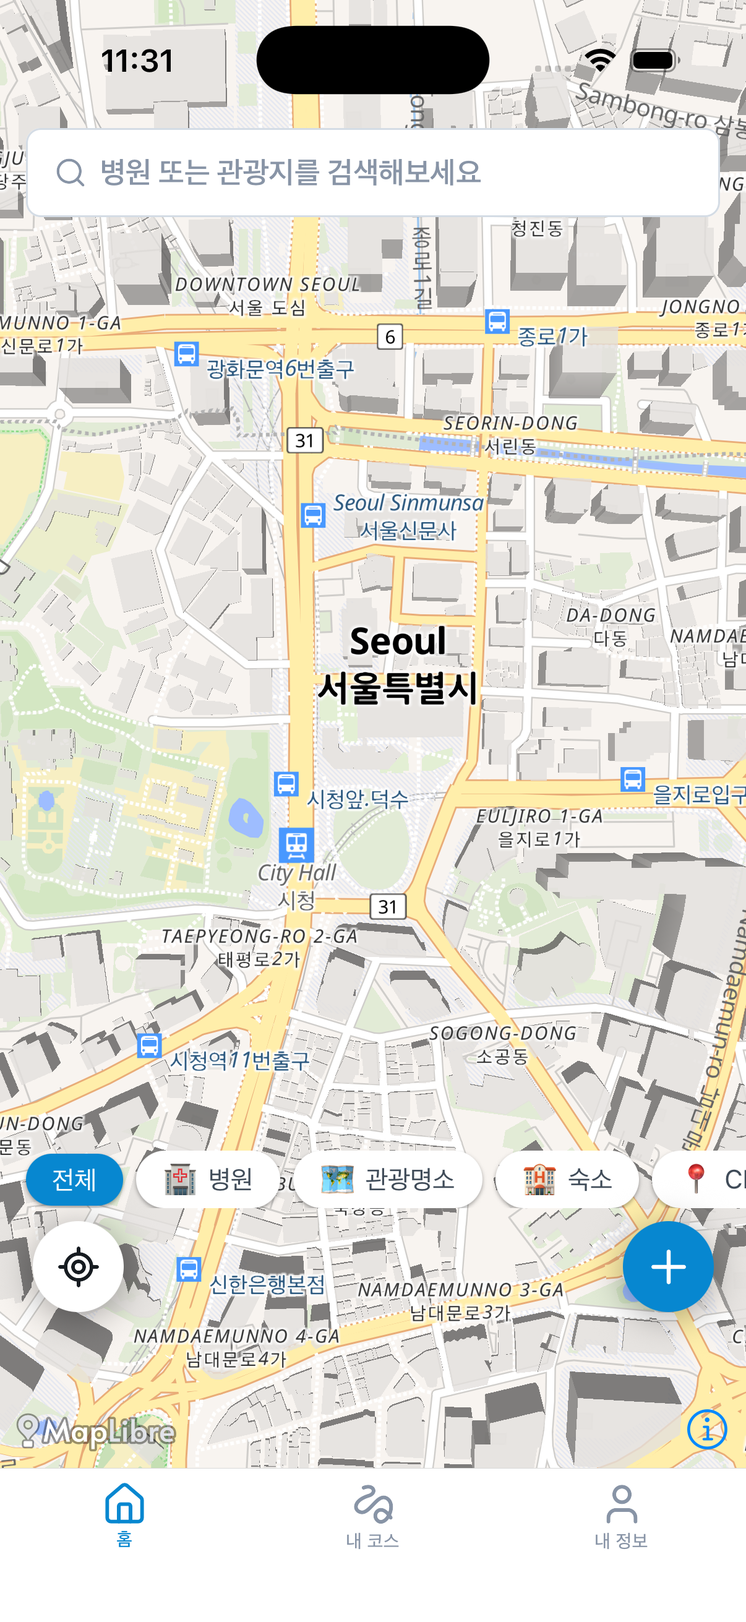
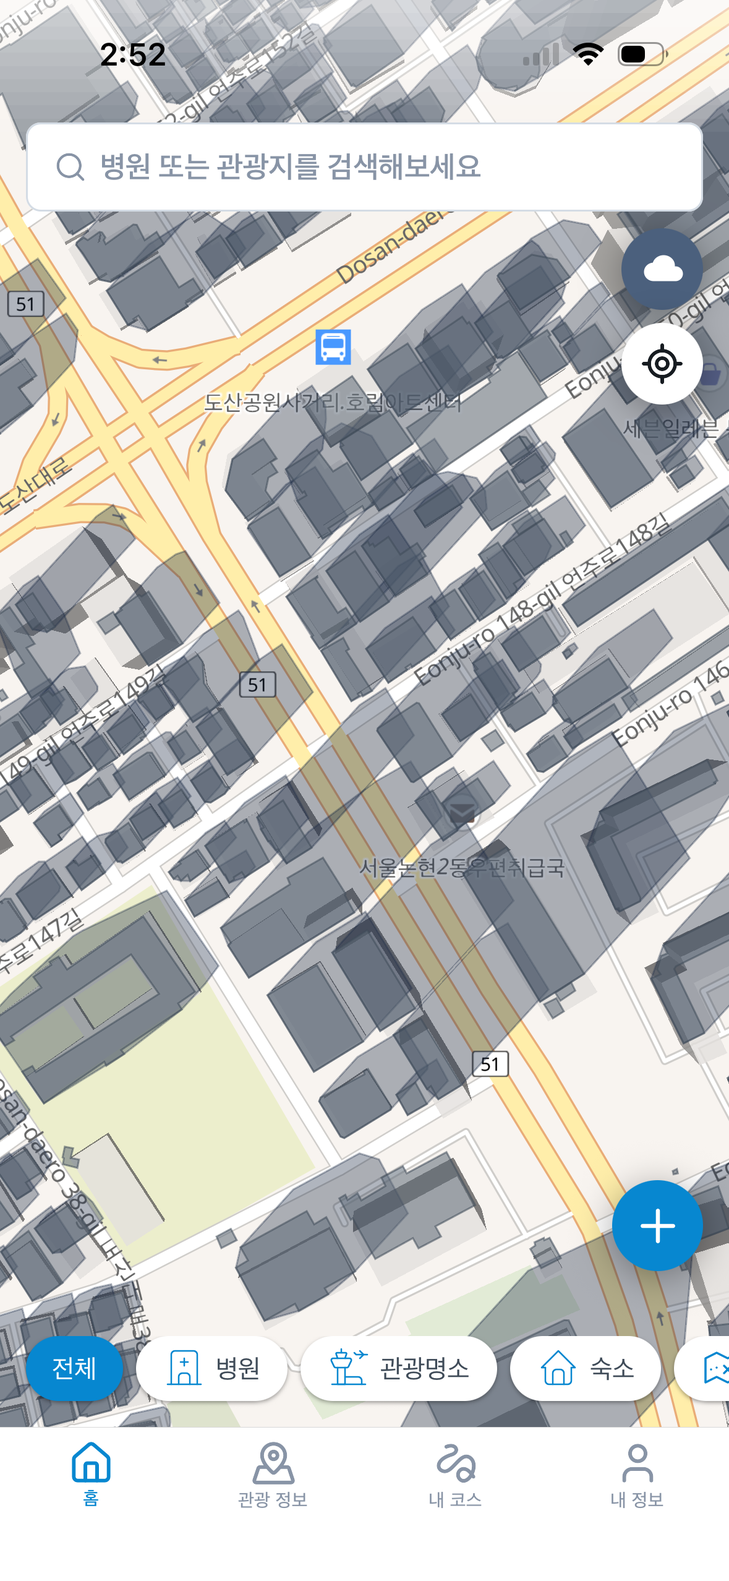
commit

diff --git a/data/content.ts b/data/content.ts
@@ -36,7 +36,7 @@ export type ProjectDetail = {
   label: string;
   content: string;
   image?: string; // 이 섹션 설명에 함께 보여줄 이미지 — public/ 에 넣고 "/파일명.png" 형태로 지정
-  contentAfter?: string; // 이미지 아래에 이어서 표시할 본문 (content → image → contentAfter 순서)
+  contentAfter?: string; // 이미지 아래에 이어서 표시할 본문 (content → image → contentAfter 순서). 중간에 이미지를 넣으려면 한 줄에 "![설명](/projects/파일명.png)"
   link?: { label: string; href: string }; // 이 섹션 아래에 표시할 데모/외부 링크 (예: Figma)
 };
 
@@ -54,10 +54,48 @@ export type Project = {
 
 export const projects: Project[] = [
   {
-    title: "The julge",
-    summary: "시급 기반 구인·구직 매칭 플랫폼",
+    title: "Afterglow",
+    summary:
+      "한국관광공사 공모전 외국인 대상 피부 시술 이후 관광 코스 추천 서비스 (FE 개발)",
+    period: "2026.05 ~ (진행 중)",
+    tags: ["React Native", "Expo", "TypeScript", "Turborepo", "디자인 시스템"],
+    repo: "https://github.com/one-two-poof/afterglow-fe",
+    link: "https://apps.apple.com/us/app/afterglow-480b89/id6808603701",
+    image: "/projects/afterglow.png",
+    details: [
+      {
+        label: "개요",
+        content:
+          "외국인 관광객을 대상으로 **피부 시술 이후의 관광 코스를 추천**하는 서비스입니다. 관광지 조회,검색해 상세를 확인하고, 코스를 추천받는 흐름을 중심으로 합니다. \n\n진행 도중 **웹에서 앱 배포로 방향이 전환**되었습니다. **모노레포 구조로 설계해 둔 덕분에, 타입, 공통 로직등을 그대로 재활용**할 수 있었고, AI를 활용하여 빠르게 마이그레이션하여 1차 배포까지 진행되었습니다. \n\n 배포에서 끝나는 것이 아닌, 실제 **사용자 피드백을 받기 위해서** 개발자 커뮤니티에 공유하여 피드백 개선 후 2차 배포를 목표로 진행 중입니다.",
+      },
+      {
+        label: "AI 마이그레이션 워크플로우",
+        content:
+          "웹에서 앱으로 방향이 바뀐 뒤, **처음에 스펙을 결정하고 컴포넌트 개발 → 기능 테스트 → 테스트 배포 → 자체 QA를 한 사이클로 반복**하며 마이그레이션을 진행했습니다.",
+        image: "/projects/afterglow-workflow.svg",
+        contentAfter:
+          '**1. 스펙 결정**\nAI에게 단순히 "구현해줘"라고 맡기지 않고, 웹 스택을 앱에서 무엇으로 대체할지, 어떤 리스크가 있는지 AI와 함께 검토하며 로드맵을 작성했습니다. 예를 들어, **웹에서 쓰던 건물 데이터(PMTiles)를 앱용 지도 라이브러리가 지원하는지**처럼 확신할 수 없는 부분은 리스크로 따로 분류했고, **지도 기능의 첫 PR에서 먼저 검증**한 뒤 다음 단계로 넘어갔습니다.\n\n**2. 컴포넌트 개발**\n**AI가 작성한 코드는 그대로 머지하지 않았습니다.** 모든 기술을 처음부터 완벽히 알고 시작한 것은 아니었기 때문에, **PR 템플릿에 학습 퀴즈 섹션을 두고 PR마다 핵심 개념을 묻는 퀴즈 3문제**를 함께 올리게 했습니다. **웹과 다른 점, 설계를 그렇게 한 이유를 이해한 후 머지**하는 원칙으로 진행했습니다.\n![PR 템플릿의 학습 퀴즈 섹션](/projects/afterglow-pr.png)\n**3. 기능 테스트**\n모든 PR은 CI에서 **lint · type-check · test · build**를 통과해야 머지되도록 했습니다. 그림자 계산,지도 영역 같은 핵심 로직은 단위 테스트로, **로그인,회원가입 유효성,탭 이동은 Maestro E2E**로 검증했습니다.\n\n**4. 테스트 배포**\n**TestFlight 내부 배포**를 진행하고, **구현한 부분을 실기기에서 검증합니다.**\n\n**5. 자체 QA**\n내부 배포된 앱을 직접 써보며 불편한 점을 찾고, 이를 **다음 개발 사이클에 반영했습니다.** 개선 과정에서 스펙이 바뀌어야 하는 경우에는 로드맵 문서를 먼저 갱신한 뒤 개발로 넘어갔습니다.',
+      },
+      {
+        label: "코스 추천 데이터 흐름 결정",
+        content:
+          "코스 추천은 **FE · BE · ML 세 파트가 걸친 기능**이라, 구현 전에 **요청을 어느 서버로 보낼지**부터 함께 정했습니다. 추천 요청을 **ML에 바로 보낼지 BE를 거칠지**, 사용자가 고른 코스를 **누가 DB에 저장할지** 5가지 흐름을 그려 비교했습니다.",
+        image: "/projects/afterglow-course.png",
+        contentAfter:
+          "**2번과 5번**은 한 서버가 다른 서버의 응답을 기다리며 요청을 붙잡고 있는 구조라, 추천 계산이 길어지면 **대기 시간과 장애 지점이 함께 늘어나** 제외했습니다. \n\n최종적으로 **1번 흐름**을 택했습니다. FE가 **ML에 직접 추천을 요청**해 결과를 받고, 사용자가 코스를 채택하면 **ML이 해당 코스를 DB에 저장**합니다. 저장된 코스 목록은 BE에서 조회합니다. 이에 맞춰 **프론트엔드가 주고받을 request/response 인터페이스**를 세 파트가 함께 맞췄습니다.",
+      },
+      {
+        label: "기술적 도전",
+        content:
+          "**1. 빌딩 데이터 최적화**\n**시술 직후 자외선을 피해야 하는 사용자 특성**을 고려해, **지도 위에 실제 건물 그림자(그늘)를 그려주는 기능**을 맡았습니다.\n\n문제는 **서울 전체 건물 데이터가 약 32MB짜리 단일 파일**이라는 점이었습니다. 앱에서 통째로 내려받는 대신 **HTTP Range 요청**을 활용하여, **현재 화면과 줌에 필요한 타일의 바이트 구간만 잘라서** 받아옵니다.\n\n**2.지도 성능 문제**\n그림자를 붙이자 **지도 이동이 멈추는 문제**가 생겼습니다. **지도 이동 시 그림자를 다시 계산해 네이티브 지도에 다시 넣는 과정**이 반복되고 있었고, 다음 해결책을 적용하였습니다:\n\n• **그림자 끄기/켜기**: 그늘 오버레이를 **기본 OFF 토글**로 바꾸고, OFF일 때는 건물 소스와 그림자 계산을 **아예 마운트하지 않아** 그림자 관련 작업이 0회가 되도록 했습니다.\n• **줌 제한**: 그림자는 **줌 15 이상**, 카테고리 마커는 **줌 14 이상**에서만 표시하고, 그보다 넓게 볼 때는 **확대 안내**를 띄웠습니다.\n• **중복 계산 차단**: 이동 종료 후 **200ms debounce**, 오래된 비동기 결과 무효화, 같은 영역의 **중복 요청 차단**을 적용했습니다.\n\n그 결과 같은 기기에서 **줌 14 구간 577ms → 332ms, 줌 15 구간 286ms → 166ms(약 42%)**개선했습니다.",
+      },
+    ],
+  },
+  {
+    title: "더줄게",
+    summary: "시급 기반 구인·구직 매칭 플랫폼 (FE 개발)",
     period: "2025.09.29 ~ 2025.10.21",
-    tags: ["Next.js", "TypeScript", "React Query", "성능 최적화", "AI 협업"],
+    tags: ["Next.js", "TypeScript", "Tanstack Query"],
     link: "https://sanginjeong-thejulge.vercel.app/",
     repo: "https://github.com/SanginJeong/thjr",
     device: "laptop", // 노트북 목업으로 표시 (가로 캡처)
@@ -69,28 +107,31 @@ export const projects: Project[] = [
           "팀 프로젝트로 개발한 **시급 기반 구인·구직 매칭 플랫폼**입니다. 사장님은 가게와 채용공고를 등록하고, 구직자는 공고를 탐색·지원하는 서비스입니다. \n\n프로젝트 이후 개인적으로 **AI를 활용한 코드 리뷰 워크플로우를 설계해 서비스를 개선**하고, 렌더링 전략과 API 구조를 다시 분석하며 성능을 끌어올린 리팩토링 프로젝트로 이어갔습니다.",
       },
       {
-        label: "주요 기능",
-        content:
-          "**공고 목록(무한 스크롤·정렬·페이지네이션), 공고 상세, 맞춤 공고 추천, 가게 등록·관리(고용주), 지원, 인증**으로 이어지는 구인·구직 흐름을 구현했습니다. \n\n인증 흐름은 Context 기반으로 정리하고, 페이지마다 렌더링 전략을 다르게 적용했습니다.",
-      },
-      {
         label: "AI 기반 코드 리뷰 워크플로우",
         content:
-          "AI에게 구현을 통째로 위임하는 대신, **프로젝트 구조와 페이지별 렌더링 전략을 함께 분석하며 개선 방향을 직접 결정하는 협업 방식**으로 리팩토링을 진행했습니다. \n\n**CodeRabbit CI와 GitHub MCP를 연계해, CodeRabbit의 자동 리뷰와 Claude의 독립 분석을 교차 검증하는 워크플로우**를 구축했습니다. 이를 통해 단일 AI 리뷰의 한계를 보완하고 코드 리뷰의 신뢰성을 높였습니다.",
+          "AI에게 구현을 통째로 위임하는 대신, **프로젝트 구조와 페이지별 렌더링 전략을 함께 분석하며 개선 방향을 직접 결정하는 협업 방식**으로 리팩토링을 진행했습니다.",
+        image: "/projects/thejulge-review-workflow.svg",
+        contentAfter:
+          "**CodeRabbit CI와 GitHub MCP를 연계해, CodeRabbit의 자동 리뷰와 Claude의 독립 분석을 교차 검증하는 워크플로우**를 구축했습니다. 이를 통해 코드 리뷰의 신뢰성을 높였습니다.",
+      },
+      {
+        label: "주요 기능",
+        content:
+          "**공고 목록(무한 스크롤,정렬,페이지네이션), 공고 상세, 맞춤 공고 추천, 가게 등록,관리(고용주), 지원, 인증**으로 이어지는 구인,구직 흐름을 구현했습니다.\n\n또한 **랜딩 페이지를 직접 기획하고 구현**했습니다. 특히 **전체 공고 수를 받아오는 동안 숫자 자리가 비어 보이는 문제**를 **Count-up 애니메이션**으로 채워, 데이터가 늦게 도착해도 **화면이 멈춰 보이지 않도록 사용자 경험을 개선**했습니다.",
       },
       {
         label: "기술적 도전",
         content:
-          "가장 크게 배운 건 **모든 페이지를 SSR로 만들려 했던 초기 설계가 패착**이었다는 점입니다. \n\nSSR에서 로그인 상태를 유지하려면 서버가 토큰을 읽을 수 있어야 해서 **토큰을 쿠키에 저장**했고, 그 과정에서 생긴 **SameSite 제약을 우회하려 API 요청을 프록시로 경유**시켰습니다. 그 결과 요청마다 지연이 쌓여 오히려 응답이 느려졌습니다. \n\n돌아보니 **사용자 인증이 필요한 페이지는 SSR의 이점이 크지 않다**는 점을 놓치고 있었습니다. 이를 인정하고, 전부 SSR로 밀어붙이는 대신 **페이지 특성에 따라 SSR과 CSR을 분리**하는 방향으로 다시 설계했습니다.",
+          "가장 크게 배운 건 **모든 페이지를 SSR로 만들려 했던 초기 설계가 패착**이었다는 점입니다. \n\nSSR에서 로그인 상태를 유지하려면 서버가 토큰을 읽을 수 있어야 해서 **토큰을 쿠키에 저장**했고, 그 과정에서 생긴 **SameSite 제약을 우회하려 API 요청을 프록시로 경유**시켰습니다. 그 결과 요청마다 지연이 쌓여 오히려 응답이 느려졌습니다. \n\n**사용자 인증이 필요한 페이지는 SSR의 이점이 크지 않다**는 점을 놓치고 있었습니다. 이를 인정하고, 전부 SSR로 구현하는 대신 **페이지 특성에 따라 SSR과 CSR을 분리**하는 방향으로 다시 설계했습니다.",
         contentAfter:
-          "그 결과 측정 수치로 개선을 확인했습니다. \n\n• 인증 페이지의 **프록시 제거 + 토큰 저장 방식 변경**으로 API 평균 응답속도 **673ms → 194ms (약 3배)** \n\n• 메인 페이지에는 **맞춤 공고**와 **전체 공고 리스트**가 함께 있는데, 로그인 사용자마다 다르게 계산되는 맞춤 공고가 로드될 때까지 **모든 사용자에게 동일한 전체 공고 리스트까지 렌더링이 블로킹**되고 있었습니다. \n\n• 그래서 **전체 공고 리스트는 SSR Prefetch로 먼저 그려지게** 하고, **맞춤 공고만 CSR로 분리**해 개인화 데이터가 전체 리스트를 막지 않도록 했습니다. 이 렌더링 분리로 **Performance 점수를 70점 → 98점**으로 끌어올렸습니다.",
+          "다음은 페이지 렌더링 구조 개선 후 측정 수치입니다. \n\n• 인증이 필요한 기능이 있는 페이지의 **프록시 제거 및 토큰 저장 방식 변경**으로 API 평균 응답속도 **673ms → 194ms (약 3배)** \n\n• 메인 페이지에는 **맞춤 공고**와 **전체 공고 리스트**가 함께 있는데, 로그인 사용자마다 다르게 계산되는 맞춤 공고가 로드될 때까지 **모든 사용자에게 동일한 전체 공고 리스트까지 렌더링이 블로킹**되고 있었습니다. 그래서 **전체 공고 리스트는 SSR Prefetch로 먼저 그려지게** 하고, **맞춤 공고만 CSR로 분리**해 개인화 데이터가 전체 리스트를 막지 않도록 했습니다. 이 렌더링 분리로 **Performance 점수를 70점 → 98점**으로 끌어올렸습니다.",
       },
     ],
   },
   {
     title: "Coworkers",
-    summary: "팀 단위 업무 공유 플랫폼 (팀 프로젝트 · 팀장)",
-    tags: ["Next.js", "TypeScript", "TanStack Query", "Storybook", "팀장"],
+    summary: "팀 단위 업무 공유 플랫폼 (FE 개발, 팀장)",
+    tags: ["Next.js", "TypeScript", "Tanstack Query", "Storybook"],
     period: "2025.10.30 ~ 2025.12.02",
     link: "https://coworkers-sanginjeong.vercel.app/", // TODO: 실제 배포 주소로 교체 (없으면 "")
     repo: "https://github.com/SanginJeong/Coworkers", // TODO: 실제 저장소 주소로 교체
@@ -108,6 +149,11 @@ export const projects: Project[] = [
           "**팀 대시보드, 게시판, 재사용 UI 컴포넌트**를 구현했습니다. \n\nStorybook으로 공통 컴포넌트를 문서화하고, 서버 상태는 TanStack Query로 관리했습니다.",
       },
       {
+        label: "할 일 상태 분류 기준 설계",
+        content:
+          "팀 대시보드는 할 일 목록을 **할 일 · 진행중 · 완료** 세 칸으로 나눠 보여줘야 했지만, 주어진 API에는 **상태 필드가 따로 없었습니다.** 할 일마다 받는 값은 **예정 날짜(date)**, **완료 시각(doneAt, 미완료면 null)**, **반복 주기(frequency)** 뿐이라, 무엇을 '진행중'으로 볼지는 프론트엔드가 정해야 했습니다. \n\n그래서 **두 값의 조합으로 상태 기준을 직접 정의**했습니다. \n\n• **완료**: doneAt 값이 있는 할 일 \n• **할 일**: 아직 완료되지 않았고, 예정 날짜가 **오늘 이후**인 할 일 \n• **진행중**: 아직 완료되지 않았는데, 예정 날짜가 **이미 도래한** 할 일 ",
+      },
+      {
         label: "컴포넌트 책임 분리",
         content:
           "모든 종류의 모달을 각각 만드는 대신 **합성 컴포넌트(Compound Component) 패턴**을 적용했습니다. \n\n**Modal의 책임을 열림/닫힘 같은 UI 상태 관리에만 한정**하고, 실제 콘텐츠는 외부에서 조합하도록 설계했습니다. 그 결과 **응집도는 높이고 도메인 모듈과의 결합도는 낮춰, 새로운 모달을 기존 코드 수정 없이 확장**할 수 있는 구조를 마련했습니다.",
@@ -118,17 +164,20 @@ export const projects: Project[] = [
           "측정과 QA를 근거로 체감 성능을 개선했습니다. \n\n• 페이지마다 흩어져 있던 **권한 검사 로직 9개를 Next.js Middleware 1개 파일로 통합**해, redirect 시 발생하던 **레이아웃 시프트 문제를 해결** \n• QA에서 발견한 **중복 API 호출을 수정**해 페이지 최초 진입 시 요청 수를 **11건 → 2건(약 80% 절감)** \n• 입력마다 발생하던 요청·렌더링을 **useDebounce(300ms)로 최적화**해 **INP 300ms → 100ms**로 개선",
       },
       {
-        label: "기술적 도전 · 협업 프로세스 개선",
+        label: "기술적 도전",
         content:
-          "프로젝트 도중 **팀원 1명이 이탈해 3명으로 진행**하게 되면서, 남은 인원이 **개발에만 집중할 수 있는 프로세스**를 마련하는 것이 팀장으로서의 과제였습니다. \n\n• **Husky + lint-staged**를 도입해 커밋 단계에서 린트·포맷을 자동화, 컨벤션을 사람이 신경 쓰지 않아도 지켜지도록 했습니다. \n• **PR 컨벤션을 UI 작업은 UI, 데이터 연동은 데이터 연동처럼 성격별로 세분화**해, 리뷰어가 한 번에 볼 변경의 범위를 좁혔습니다. \n\n그 결과 **PR 리뷰 부담을 줄이고, 팀원들이 협업 규칙보다 개발 자체에 집중**할 수 있는 환경을 만들었습니다.",
+          "프로젝트 도중 **팀원 1명이 이탈해 3명으로 진행**하게 되면서, 남은 인원이 **개발에만 집중할 수 있는 프로세스**를 마련하는 것이 팀장으로서의 과제였습니다. \n\n• **Husky + lint-staged**를 도입해 커밋 단계에서 린트·포맷을 자동화, 컨벤션을 사람이 신경 쓰지 않아도 지켜지도록 했습니다. \n• **PR 컨벤션을 UI 작업은 UI, 데이터 연동은 데이터 연동처럼 성격별로 세분화**해, 리뷰어가 한 번에 볼 변경의 범위를 좁혔습니다. \n• **코드 컨벤션도 리뷰 부담을 줄이는 방향으로** 정했습니다. 예를 들어 간단한 조건문이라도 if (isPending) return; 처럼 한 줄로 쓰지 않고 **항상 중괄호로 감싸도록** 했습니다. 나중에 조건 안에 코드가 추가되더라도 **기존 줄은 그대로 두고 추가된 줄만 diff에 드러나**, 리뷰어가 무엇이 바뀌었는지 바로 파악할 수 있기 때문입니다.",
+        image: "/projects/coworkers-convention.svg",
+        contentAfter:
+          "그 결과 **PR 리뷰 부담을 줄이고, 팀원들이 협업 규칙보다 개발 자체에 집중**할 수 있는 환경을 만들었습니다.",
       },
     ],
   },
   {
     title: "Rolling",
-    summary: "롤링페이퍼 웹 커뮤니티 플랫폼 (팀 프로젝트 · 팀장)",
+    summary: "롤링페이퍼 웹 커뮤니티 플랫폼 (FE 개발, 팀장)",
     period: "2025.08.09 ~ 2025.08.26",
-    tags: ["React", "React Router", "Tailwind CSS"],
+    tags: ["React", "Tailwind CSS"],
     link: "https://roliing-sprint-18-5.netlify.app/", // TODO: 실제 배포 주소로 교체 (없으면 "")
     repo: "https://github.com/sprint-FE18-5/Codeit-Sprint-Rolling", // TODO: 실제 저장소 주소로 교체
     device: "laptop", // 노트북 목업으로 표시 (가로 캡처)
@@ -143,7 +192,6 @@ export const projects: Project[] = [
         label: "주요 기능",
         content:
           "**랜딩 → 목록 → 생성 → 메시지 작성 → 상세 열람 → 반응·공유**로 이어지는 사용자 흐름을 구현했습니다. \n\n제가 맡은 부분은 **라우팅·레이아웃 구조, Header·Badge 공통 컴포넌트, 이모지 기능, 카카오톡·URL 공유, 롤링페이퍼 생성 페이지, axios interceptor 세팅 및 API 함수 구현**입니다.",
-        image: "/projects/rolling-flow.svg",
       },
       {
         label: "협업 · 팀장 경험",
@@ -157,6 +205,7 @@ export const projects: Project[] = [
       },
     ],
   },
+
   {
     title: "나와 닮은 동물 유형은?",
     summary: "생활 패턴 기반 동물 유형 테스트 & 축제 부스 서비스",
@@ -183,48 +232,7 @@ export const projects: Project[] = [
       },
     ],
   },
-  {
-    title: "Afterglow (26.9.21 출시 예정)",
-    summary:
-      "한국관광공사 공모전: 외국인 대상 피부 시술 이후 관광 코스 추천 서비스",
-    period: "2026.05 ~ (진행 중)",
-    tags: [
-      "React Native",
-      "Expo",
-      "TypeScript",
-      "Turborepo",
-      "디자인 시스템",
-      "AI 협업",
-    ],
-    repo: "https://github.com/one-two-poof/afterglow-fe",
-    image: "/projects/afterglow.png",
-    details: [
-      {
-        label: "개요",
-        content:
-          "외국인 관광객을 대상으로 **피부 시술 이후의 관광 코스를 추천**하는 서비스입니다. 관광지 조회·검색해 상세를 확인하고, 코스를 추천받는 흐름을 중심으로 합니다. \n\n진행 도중 **웹에서 앱 배포로 방향이 전환**되며 현재 앱으로 마이그레이션하고 있습니다. 초기에 **모노레포 구조로 설계해 둔 덕분에, 타입·API 클라이언트·공통 로직을 웹과 앱에서 그대로 재활용**할 수 있어 방향 전환에 유연하게 대응하고 있습니다.",
-      },
-      {
-        label: "주요 기능",
-        content:
-          "**병원 조회·검색 → 상세 → 코스 추천** 플로우와 **Google OAuth 로그인**, 지도 기반 UI, 다단계 여행 계획 폼을 구현했습니다. \n\n특히 **시술 직후 자외선을 피해야 하는 사용자 특성**을 고려해 **지도 위에 실제 그림자(그늘)를 그려주는 기능**을 맡았습니다. **SunCalc로 해당 시간·위치의 태양 고도(altitude)와 방위각(azimuth)을 구하고, 건물 높이 데이터를 받아** 건물이 드리우는 **그림자의 방향과 길이를 계산한 뒤, 그 영역을 지도 위에 오버레이로 렌더링**했습니다. \n\n코스 추천 기능에서는 **BE·ML과 함께 데이터 흐름을 직접 설계**했습니다. 추천 요청과 응답을 **ML에 바로 보낼지, BE를 거칠지**, 그리고 결과를 **DB에 저장했다가 불러올지 매번 새로 계산할지**까지 세 파트가 함께 논의하며, 프론트엔드가 어떤 형태의 request/response를 주고받을지 인터페이스를 맞췄습니다.",
-      },
-      {
-        label: "디자인 시스템",
-        content:
-          "잦은 기획 변경에 대응하기 위해 **재사용 가능한 컴포넌트 기반 디자인 시스템**을 구축했습니다. 색상·타이포·간격 토큰과 공통 컴포넌트를 정의해, 화면이 바뀌어도 일관성을 유지하며 빠르게 조립할 수 있도록 했습니다.",
-        link: {
-          label: "디자인 시스템 (Figma)",
-          href: "https://www.figma.com/design/kXaQCZl4GCGymDR9Pbdj07/afterglow?node-id=0-1&t=akJ2lr6zafZCGYeR-1", // TODO: 실제 Figma 링크로 교체
-        },
-      },
-      {
-        label: "기술적 도전 · AI 협업",
-        content:
-          "현재 **AI를 활용해 웹 코드를 앱(React Native)으로 마이그레이션**하고 있습니다. \n\n솔직히 모든 기술을 완벽히 이해하고 진행하는 것은 아니지만, AI가 내놓은 코드를 그대로 받아 쓰지 않기 위해 **PR마다 스스로 퀴즈를 만들어 풀며** 변경 내용을 이해하고 넘어갑니다. 이렇게 **AI의 생산성과 저의 학습을 동시에** 가져가며, 이해하지 못한 코드는 남기지 않는 방식으로 진행 중인 서비스입니다.",
-      },
-    ],
-  },
+
   {
     title: "블로그 썸네일 메이커",
     summary: "블로그 썸네일 생성 크롬 익스텐션",

diff --git a/components/Projects.tsx b/components/Projects.tsx
@@ -18,6 +18,36 @@ function renderRichText(text: string) {
   );
 }
 
+// 본문 중간의 `![설명](/경로.png)` 줄을 이미지로 렌더링하고, 나머지는 문단으로 표시
+function renderBody(text: string, className: string) {
+  const parts = text.split(/\n*!\[([^\]]*)\]\(([^)]+)\)\n*/g);
+  const blocks = [];
+  for (let i = 0; i < parts.length; i += 3) {
+    if (parts[i]) {
+      blocks.push(
+        <p key={`p${i}`} className={className}>
+          {renderRichText(parts[i])}
+        </p>,
+      );
+    }
+    if (parts[i + 2]) {
+      blocks.push(
+        <Image
+          key={`img${i}`}
+          src={parts[i + 2]}
+          alt={parts[i + 1]}
+          width={0}
+          height={0}
+          sizes="(max-width: 768px) 100vw, 600px"
+          quality={90}
+          className="mt-4 h-auto w-full rounded-xl border border-neutral-100"
+        />,
+      );
+    }
+  }
+  return blocks;
+}
+
 const item = {
   hidden: { opacity: 0, y: 48, filter: "blur(6px)" },
   show: {
@@ -246,11 +276,11 @@ function ProjectModal({
                       className="mt-4 h-auto w-full rounded-xl border border-neutral-100"
                     />
                   )}
-                  {section.contentAfter && (
-                    <p className="mt-4 whitespace-pre-line leading-relaxed text-neutral-700">
-                      {renderRichText(section.contentAfter)}
-                    </p>
-                  )}
+                  {section.contentAfter &&
+                    renderBody(
+                      section.contentAfter,
+                      "mt-4 whitespace-pre-line leading-relaxed text-neutral-700",
+                    )}
                   {section.link && (
                     <a
                       href={section.link.href}
